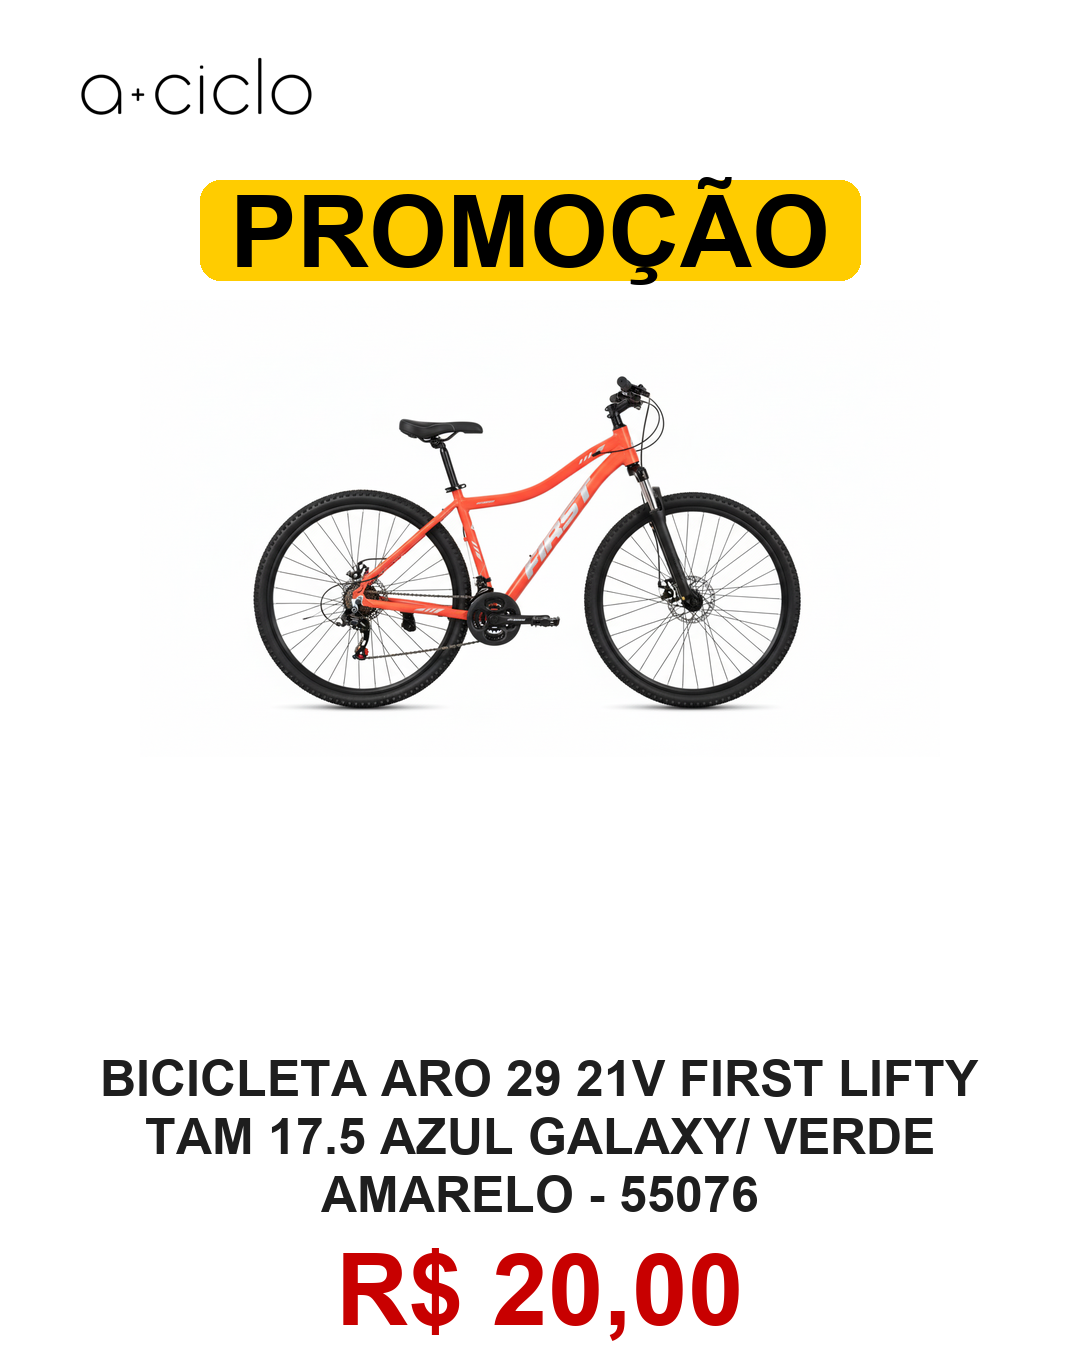
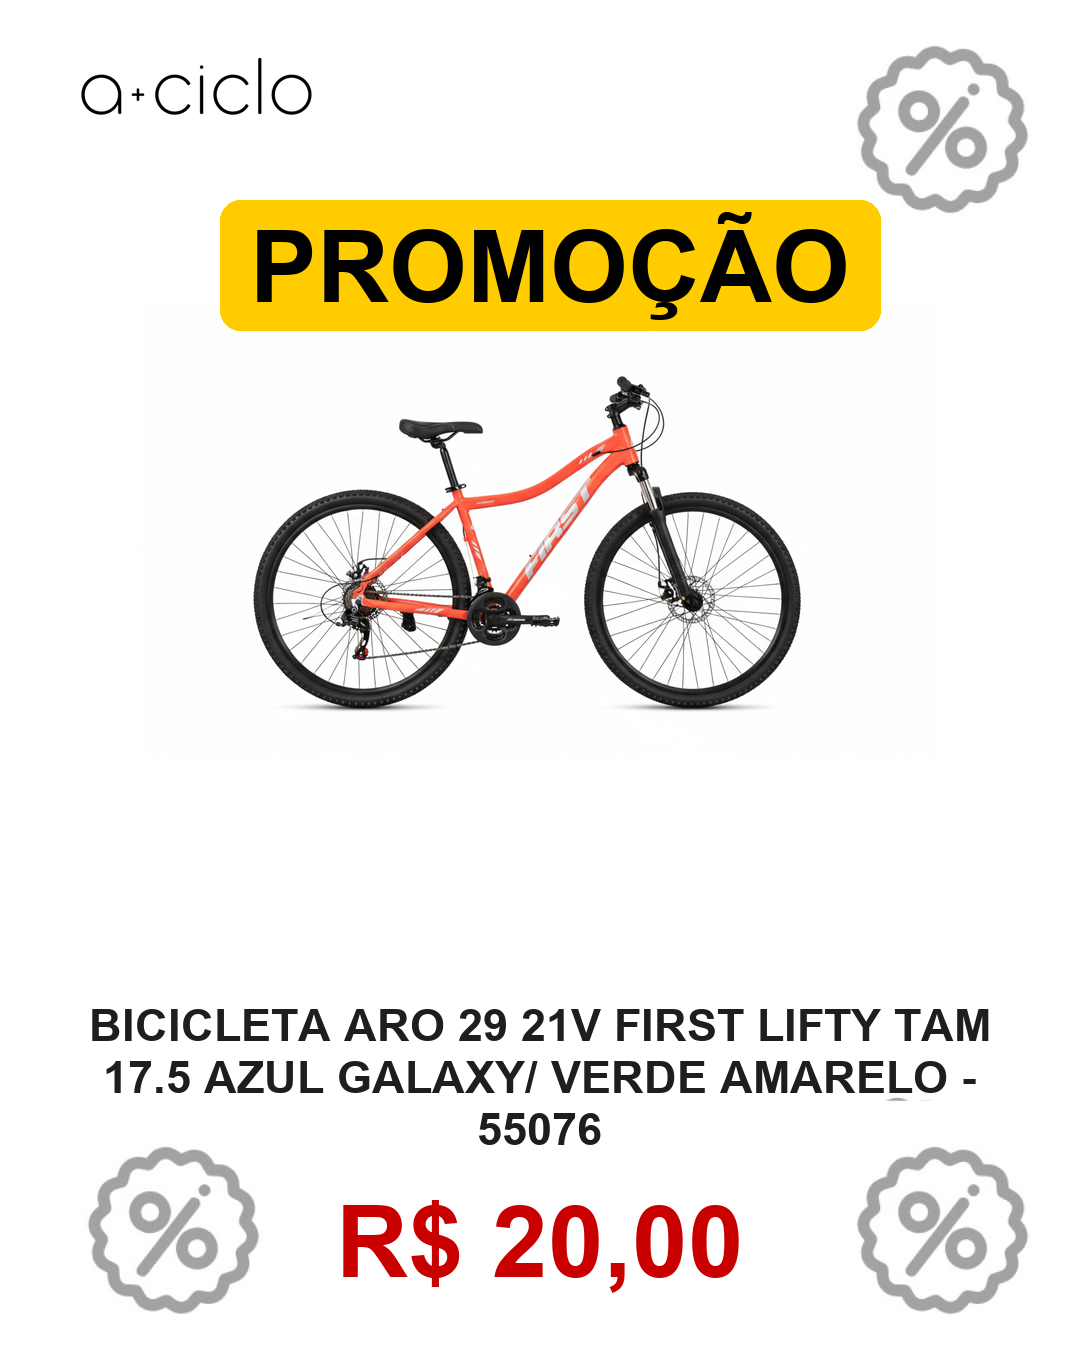
Alterações no codigo

Changed region(s): [[0.0611, 0.7467, 0.9472, 0.9956], [0.1833, 0.0311, 0.9472, 0.2489]]

diff --git a/criar_imagem.py b/criar_imagem.py
@@ -9,6 +9,7 @@ PASTA_SAIDA = 'banners_prontos'
 EXTENSOES_POSSIVEIS = ['jpg', 'jpeg', 'png']
 NOME_FONTE = "arialbd.ttf" # Arial Bold para destaque
 LOGO_AMAISCICLO_FILE = 'amaisciclo.jpeg' 
+IMAGEM_FUNDO_FILE = 'fundo_padrao.jpg'
 
 # --- Configurações do Layout ---
 LARGURA_BANNER = 1080
@@ -16,9 +17,9 @@ ALTURA_BANNER = 1350
 COR_FUNDO = 'white'
 
 # --- Configurações de Área ---
-ALTURA_IMAGEM_PRODUTO_MAX = 1050 
-Y_INICIO_AREA_TEXTO = 1050
-LARGURA_MAX_TEXTO = LARGURA_BANNER - 120 
+ALTURA_IMAGEM_PRODUTO_MAX = 680
+Y_INICIO_AREA_TEXTO = 1000
+LARGURA_MAX_TEXTO = LARGURA_BANNER - 100 
 
 # --- Configurações de Texto e Cores ---
 COR_PRECO_DESTAQUE = (200, 0, 0) 
@@ -32,10 +33,9 @@ TEXTO_BANNER_DESTAQUE_PRINCIPAL = "PROMOÇÃO"
 COR_BANNER_DESTAQUE_PRINCIPAL = (255, 204, 0) # Amarelo vibrante
 COR_TEXTO_BANNER_DESTAQUE = 'black'
 
-ALTURA_DESTAQUE_PRINCIPAL = 100
-# ⬇ POSIÇÕES AJUSTADAS para o banner de destaque
-POS_X_DESTAQUE = 200 # Posição X inicial do banner principal (amarelo)
-POS_Y_DESTAQUE = 180 # Posição Y inicial do banner principal (amarelo) 
+ALTURA_DESTAQUE_PRINCIPAL = 130
+POS_X_DESTAQUE = 220 # Posição X inicial do banner principal (amarelo)
+POS_Y_DESTAQUE = 200 # Posição Y inicial do banner principal (amarelo) 
 TAMANHO_FONTE_DESTAQUE_PRINCIPAL = 100
 
 # --- Funções Auxiliares ---
@@ -97,7 +97,7 @@ def criar_banners_em_lote():
 
     try:
         font_path = NOME_FONTE
-        fonte_descricao = ImageFont.truetype(font_path, 50) 
+        fonte_descricao = ImageFont.truetype(font_path, 45) 
         fonte_valor = ImageFont.truetype(font_path, 100) 
         # Fontes para os banners de destaque
         fonte_destaque_principal = ImageFont.truetype(font_path, TAMANHO_FONTE_DESTAQUE_PRINCIPAL)
@@ -135,7 +135,44 @@ def criar_banners_em_lote():
                 print(f"ERRO (Linha {index+2} - Código {codigo_produto}): Imagem não encontrada.")
                 continue
             
-            banner_final = Image.new('RGB', (LARGURA_BANNER, ALTURA_BANNER), color=COR_FUNDO)
+            banner_final = None
+            try:
+                # Tenta abrir o arquivo de fundo
+                img_fundo = Image.open(IMAGEM_FUNDO_FILE).convert("RGB")
+                
+                # Redimensiona para cobrir todo o banner (Mantém a proporção e corta as bordas)
+                proporcao_banner = LARGURA_BANNER / ALTURA_BANNER
+                proporcao_fundo = img_fundo.width / img_fundo.height
+                
+                if proporcao_fundo > proporcao_banner:
+                    # Fundo é mais largo, redimensiona pela altura
+                    nova_altura = ALTURA_BANNER
+                    nova_largura = int(img_fundo.width * (nova_altura / img_fundo.height))
+                    img_fundo = img_fundo.resize((nova_largura, nova_altura))
+                    # Centraliza
+                    x_corte = (nova_largura - LARGURA_BANNER) // 2
+                    img_fundo = img_fundo.crop((x_corte, 0, x_corte + LARGURA_BANNER, ALTURA_BANNER))
+                else:
+                    # Fundo é mais alto, redimensiona pela largura
+                    nova_largura = LARGURA_BANNER
+                    nova_altura = int(img_fundo.height * (nova_largura / img_fundo.width))
+                    img_fundo = img_fundo.resize((nova_largura, nova_altura))
+                    # Centraliza
+                    y_corte = (nova_altura - ALTURA_BANNER) // 2
+                    img_fundo = img_fundo.crop((0, y_corte, LARGURA_BANNER, y_corte + ALTURA_BANNER))
+                    
+                banner_final = img_fundo.copy()
+                print(f"Fundo '{IMAGEM_FUNDO_FILE}' adicionado.")
+
+            except FileNotFoundError:
+                # Caso o arquivo não exista, usa a cor sólida
+                print(f"AVISO: Arquivo de fundo '{IMAGEM_FUNDO_FILE}' não encontrado. Usando cor sólida.")
+                banner_final = Image.new('RGB', (LARGURA_BANNER, ALTURA_BANNER), color=COR_FUNDO)
+            except Exception as e:
+                print(f"ERRO ao carregar/redimensionar fundo: {e}. Usando cor sólida.")
+                banner_final = Image.new('RGB', (LARGURA_BANNER, ALTURA_BANNER), color=COR_FUNDO)
+
+
             draw = ImageDraw.Draw(banner_final)
             
             # 6. Colocando a Imagem do Produto
@@ -186,7 +223,7 @@ def criar_banners_em_lote():
                 desenhar_texto(draw, (x_descricao, current_y), line, fonte_descricao, COR_TEXTO_DESCRICAO)
                 current_y += line_h + TEXT_LINE_SPACING
             
-            y_inicio_preco = current_y + 10 
+            y_inicio_preco = current_y + 30 
 
             texto_w_valor, texto_h_valor = get_text_dimensions(draw, valor_exibicao, fonte_valor)
             
